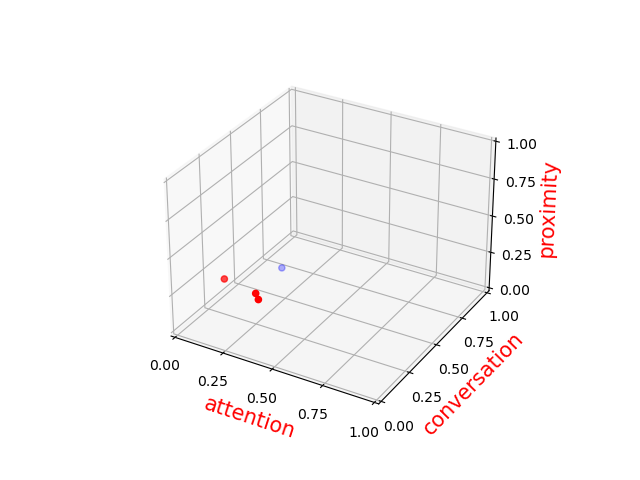
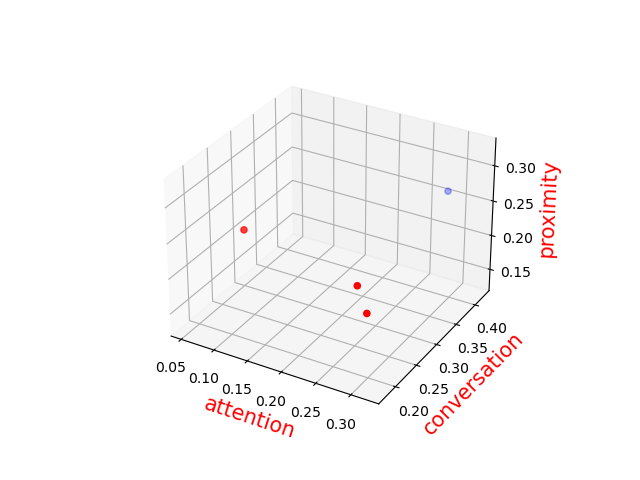
change axis

Changed region(s): [[0.25, 0.1875, 0.8438, 0.8438], [0.4375, 0.7812, 0.6875, 0.9062], [0.2188, 0.75, 0.4375, 0.8438]]

diff --git a/cluster.py b/cluster.py
@@ -36,6 +36,7 @@ def get_weight(json_file, normalize = False):
     return edge_list
 
 def visualize_cluster_results(group_list):
+    group_array = np.array(group_list)
     for i in range(len(group_list)):
         X = np.array(group_list[i])
 
@@ -44,16 +45,14 @@ def visualize_cluster_results(group_list):
         fig = plt.figure()
         ax = fig.add_subplot(111, projection='3d')
         ax.scatter(X[:, 0], X[:, 1], X[:, 2], c=mapped_colors, label='Data Points')
-        ax.set_xlim(np.min(X[:, 0]),np.max(X[:, 0]))
-        ax.set_ylim(np.min(X[:, 1]),np.max(X[:, 1]))
-        ax.set_zlim(np.min(X[:, 2]),np.max(X[:, 2]))
+        ax.set_xlim(np.min(group_array[:,:, 0]),np.max(group_array[:,:, 0]))
+        ax.set_ylim(np.min(group_array[:,:, 1]),np.max(group_array[:,:, 1]))
+        ax.set_zlim(np.min(group_array[:,:, 2]),np.max(group_array[:,:, 2]))
+        
 
         ax.set_zlabel('proximity', fontdict = {"size":15, 'color': 'red'})
         ax.set_ylabel('conversation', fontdict = {"size":15, 'color': 'red'})
-        ax.set_xlabel('attention', fontdict = {"size":15, 'color': 'red'})
-        ax.set_xticks([0, 0.25, 0.5, 0.75, 1]) 
-        ax.set_yticks([0, 0.25, 0.5, 0.75, 1])             
-        ax.set_zticks([0, 0.25, 0.5, 0.75, 1])      
+        ax.set_xlabel('attention', fontdict = {"size":15, 'color': 'red'})               
 
         # ax.scatter(kmeans.cluster_centers_[:, 0], kmeans.cluster_centers_[:, 1], kmeans.cluster_centers_[:, 2], c='red', marker='x', label='Cluster Centers')
         # plt.legend()
@@ -81,11 +80,12 @@ def regression(leader_ratio_list, acc, time, efficiency):
     time_pred = model_1.predict(x)
     efficiency_pred = model_2.predict(x)
 
+    
     plt.figure(1)
     plt.xticks([0,0.25,0.5,0.75,1])
     plt.xlabel("leader ratio")
     plt.ylabel("accuracy(%)")
-    plt.scatter(x, acc, label="Data points")  
+    plt.scatter(x, acc, s = 50, label="Data points")  
     plt.plot(x, acc_pred, color='r', label="Regression line")  
     plt.legend()
     plt.savefig("regression_results/accuracy_regression.png")
@@ -137,8 +137,8 @@ for group in group_list:
     inertia.append(kmeans.inertia_)
 
 # visualize_cluster_results(group_list)
-print(cluster_labels)
-print(centers)
+# print(cluster_labels)
+# print(centers)
 # figure out which cluster is leader and supporter
 
 leader_ratio_list = []
@@ -175,30 +175,31 @@ efficiency = []
 for i in range(len(complete_time)):
     efficiency.append(accuracy[i]/complete_time[i])
 
-print(complete_time)
-print(accuracy)
-print(leader_ratio_list)
+# print(complete_time)
+# print(accuracy)
+# print(leader_ratio_list)
 
-plt.figure(1)
-plt.scatter(leader_ratio_list, accuracy)
-plt.xticks([0,0.25,0.5,0.75,1])
-plt.xlabel("leader ratio")
-plt.ylabel("accuracy(%)")
-plt.savefig("regression_results/accuracy.png")
+# plt.figure(1)
+# plt.scatter(leader_ratio_list, accuracy)
+# plt.xticks([0,0.25,0.5,0.75,1])
+# plt.xlabel("leader ratio")
+# plt.ylabel("accuracy(%)")
+# plt.savefig("regression_results/accuracy.png")
 
-plt.figure(2)
-plt.scatter(leader_ratio_list, complete_time)
-plt.xticks([0,0.25,0.5,0.75,1])
-plt.xlabel("leader ratio")
-plt.ylabel("complete time(s)")
-plt.savefig("regression_results/time.png")
+# plt.figure(2)
+# plt.scatter(leader_ratio_list, complete_time)
+# plt.xticks([0,0.25,0.5,0.75,1])
+# plt.xlabel("leader ratio")
+# plt.ylabel("complete time(s)")
+# plt.savefig("regression_results/time.png")
 
-plt.figure(3)
-plt.scatter(leader_ratio_list, efficiency)
-plt.xticks([0,0.25,0.5,0.75,1])
-plt.xlabel("leader ratio")
-plt.ylabel("efficiency (accuracy/time)")
-plt.savefig("regression_results/efficiency.png")
+# plt.figure(3)
+# plt.scatter(leader_ratio_list, efficiency)
+# plt.xticks([0,0.25,0.5,0.75,1])
+# plt.xlabel("leader ratio")
+# plt.ylabel("efficiency (accuracy/time)")
+# plt.savefig("regression_results/efficiency.png")
 
 # plt.show()
+# plt.close()
 regression(leader_ratio_list, accuracy, complete_time, efficiency)
